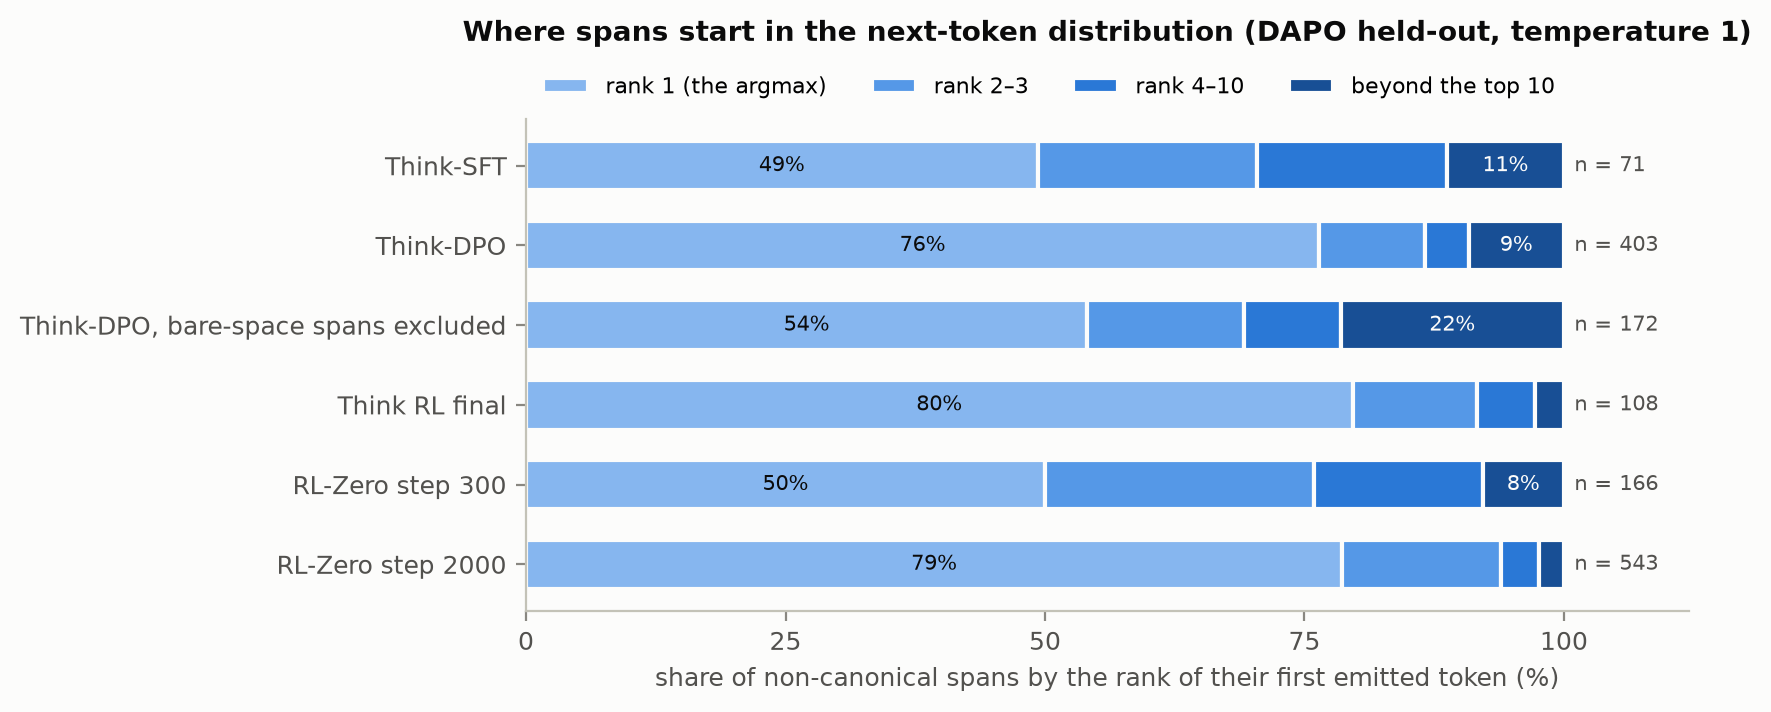
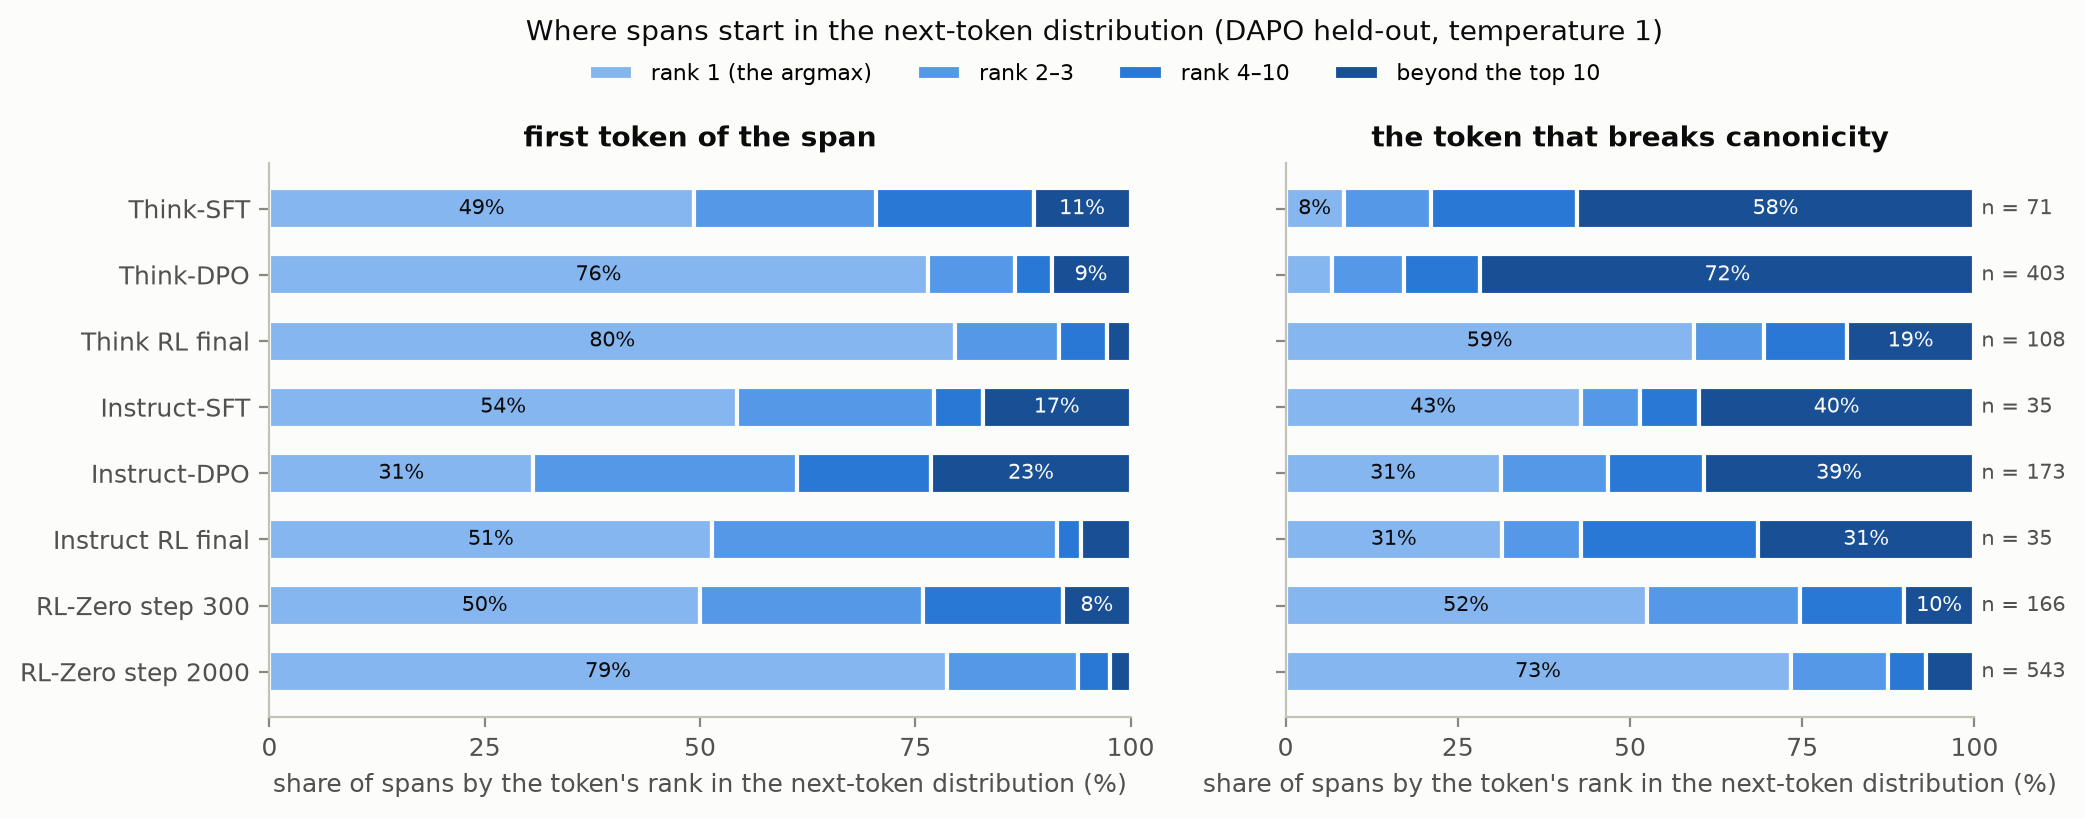
fig3: rank of the span's first token beside the rank of the token that breaks canonicity (tail.deviation_ranks split out of the table printer); draft section 2 rewritten around it

diff --git a/scripts/figures.py b/scripts/figures.py
@@ -201,42 +201,47 @@ def fig2() -> None:
     save(fig, "fig2_rlzero_steps.png")
 
 
-# --- 3. rank of the first token of each span -----------------------------------------
+# --- 3. rank of the span's first token and of the token that breaks canonicity ---------------
 def fig3() -> None:
     from noncanon.metrics import Analyzer
-    from noncanon.tail import BANDS, collect
+    from noncanon.tail import BANDS, deviation_ranks
 
     an = Analyzer("allenai/Olmo-3-7B-Think")
     cells = [("Think-SFT", "think-sft"), ("Think-DPO", "think-dpo"), ("Think RL final", "think-main"),
+             ("Instruct-SFT", "instruct-sft"), ("Instruct-DPO", "instruct-dpo"), ("Instruct RL final", "instruct-main"),
              ("RL-Zero step 300", "rlzero-math-step300"), ("RL-Zero step 2000", "rlzero-math")]
-    labels, shares, ns = [], [], []
+    labels, first_shares, dev_shares, ns = [], [], [], []
     DATA["fig3"] = {}
     for label, run in cells:
-        d = collect(an, Path("out") / run / D)
-        for name, arr in [(label, d["all_first"])] + ([(label + ", bare-space spans excluded", d["other_first"])] if label == "Think-DPO" else []):
-            sh = [100 * ((arr >= lo) & (arr <= hi)).mean() for lo, hi in BANDS]
-            labels.append(name); shares.append(sh); ns.append(len(arr))
-            DATA["fig3"][name] = {"spans": len(arr), "share_rank_1_2-3_4-10_gt10": sh, "sampled_tokens_rank_1": 100 * (d["ranks"] == 1).mean()}
-    fig, ax = plt.subplots(figsize=(7.5, 3.2))
-    ax.grid(False)
+        first, dev, where = deviation_ranks(an, Path("out") / run / D, "untruncated")
+        f_sh = [100 * ((first >= lo) & (first <= hi)).mean() for lo, hi in BANDS]
+        d_sh = [100 * ((dev >= lo) & (dev <= hi)).mean() for lo, hi in BANDS]
+        labels.append(label); first_shares.append(f_sh); dev_shares.append(d_sh); ns.append(len(first))
+        DATA["fig3"][label] = {"spans": len(first), "first_token_rank_1_2-3_4-10_gt10": f_sh, "deviating_token_rank_1_2-3_4-10_gt10": d_sh,
+                              "deviation_at_token": {k: where[k] for k in ("1", "2", "later")}}
+    fig, axes = plt.subplots(1, 2, figsize=(11, 3.6), sharey=True, gridspec_kw={"width_ratios": [1.25, 1]})
     y = np.arange(len(labels))[::-1]
-    left = np.zeros(len(labels))
     band_names = ["rank 1 (the argmax)", "rank 2–3", "rank 4–10", "beyond the top 10"]
-    for b, (name, color) in enumerate(zip(band_names, ORDINAL)):
-        vals = np.array([s[b] for s in shares])
-        ax.barh(y, vals, left=left, color=color, height=0.62, label=name, edgecolor=SURFACE, linewidth=1.5, zorder=2)
-        for yi, l, v in zip(y, left, vals):
-            if b in (0, 3) and v >= 6:
-                ax.text(l + v / 2, yi, f"{v:.0f}%", ha="center", va="center", fontsize=7.5, color=SURFACE if b == 3 else INK)
-        left += vals
+    for ax, shares, title in zip(axes, (first_shares, dev_shares), ("first token of the span", "the token that breaks canonicity")):
+        ax.grid(False)
+        left = np.zeros(len(labels))
+        for b, (name, color) in enumerate(zip(band_names, ORDINAL)):
+            vals = np.array([s[b] for s in shares])
+            ax.barh(y, vals, left=left, color=color, height=0.62, label=name, edgecolor=SURFACE, linewidth=1.5, zorder=2)
+            for yi, l, v in zip(y, left, vals):
+                if b in (0, 3) and v >= 7:
+                    ax.text(l + v / 2, yi, f"{v:.0f}%", ha="center", va="center", fontsize=7.5, color=SURFACE if b == 3 else INK)
+            left += vals
+        ax.set_xlim(0, 100)
+        ax.set_xticks([0, 25, 50, 75, 100])
+        ax.set_title(title)
+        ax.set_xlabel("share of spans by the token's rank in the next-token distribution (%)")
     for yi, n in zip(y, ns):
-        ax.text(101, yi, f"n = {n}", va="center", fontsize=7.5, color=INK2)
-    ax.set_yticks(y, labels)
-    ax.set_xlim(0, 112)
-    ax.set_xticks([0, 25, 50, 75, 100])
-    ax.set_xlabel("share of non-canonical spans by the rank of their first emitted token (%)")
-    ax.legend(loc="lower center", bbox_to_anchor=(0.45, 1.0), ncol=4)
-    ax.set_title("Where spans start in the next-token distribution (DAPO held-out, temperature 1)", pad=28)
+        axes[1].text(101, yi, f"n = {n}", va="center", fontsize=7.5, color=INK2)
+    axes[0].set_yticks(y, labels)
+    handles, names = axes[0].get_legend_handles_labels()
+    fig.legend(handles, names, loc="lower center", bbox_to_anchor=(0.5, 0.96), ncol=4)
+    fig.suptitle("Where spans start in the next-token distribution (DAPO held-out, temperature 1)", fontsize=10, color=INK, y=1.08)
     save(fig, "fig3_span_rank.png")
 
 

diff --git a/noncanon/tail.py b/noncanon/tail.py
@@ -116,33 +116,42 @@ def deviation_index(an: Analyzer, span_ids: list[int]) -> int:
     return len(span_ids) - 1
 
 
-def print_deviation_table(an: Analyzer, specs: list[str], default_arm: str | None) -> None:
-    """Per cell: rank bands of the span's first token and of its deviating token, and where the deviation sits."""
+def deviation_ranks(an: Analyzer, run: Path, arm: str | None) -> tuple[np.ndarray, np.ndarray, Counter]:
+    """Per span of one cell: rank of the first token, rank of the deviating token (11 = beyond the stored top-10),
+    and a count of where the deviation sits ("1", "2", "later")."""
     import json
 
-    from noncanon.compare import load_rows, parse_spec
+    from noncanon.compare import load_rows
+
+    arm_name = load_rows(run, arm)[0]["file"].removesuffix(".parquet")
+    recs = {(r["prompt_id"], r["sample"]): r for r in iter_records(run / f"{arm_name}.parquet")}
+    first, dev, where = [], [], Counter()
+    for line in (run / "metrics" / "examples.jsonl").open():
+        e = json.loads(line)
+        if not e["file"].startswith(arm_name) or e["canonical"] is None:
+            continue
+        rec = recs[(e["prompt_id"], e["sample"])]
+        ids, pos, L = rec["token_ids"], e["pos"], len(e["emitted"])
+        k = deviation_index(an, ids[pos: pos + L])
+        if pos + k >= len(rec["topk_ids"]):
+            continue
+        rank = lambda i: rec["topk_ids"][i].index(ids[i]) + 1 if ids[i] in rec["topk_ids"][i][:10] else 11
+        first.append(rank(pos)); dev.append(rank(pos + k)); where["1" if k == 0 else "2" if k == 1 else "later"] += 1
+    return np.array(first), np.array(dev), where
+
+
+def print_deviation_table(an: Analyzer, specs: list[str], default_arm: str | None) -> None:
+    """Per cell: rank bands of the span's first token and of its deviating token, and where the deviation sits."""
+    from noncanon.compare import parse_spec
 
     print("| cell | spans | first-token rank: 1 / 2–3 / 4–10 / beyond top-10 | deviating-token rank: 1 / 2–3 / 4–10 / beyond top-10 | deviation at token 1 / 2 / later |")
     print("|---|--:|---|---|---|")
     for spec in specs:
         label, run, arm = parse_spec(spec, default_arm)
-        arm_name = load_rows(run, arm)[0]["file"].removesuffix(".parquet")
-        recs = {(r["prompt_id"], r["sample"]): r for r in iter_records(run / f"{arm_name}.parquet")}
-        first, dev, where = [], [], Counter()
-        for line in (run / "metrics" / "examples.jsonl").open():
-            e = json.loads(line)
-            if not e["file"].startswith(arm_name) or e["canonical"] is None:
-                continue
-            rec = recs[(e["prompt_id"], e["sample"])]
-            ids, pos, L = rec["token_ids"], e["pos"], len(e["emitted"])
-            k = deviation_index(an, ids[pos: pos + L])
-            if pos + k >= len(rec["topk_ids"]):
-                continue
-            rank = lambda i: rec["topk_ids"][i].index(ids[i]) + 1 if ids[i] in rec["topk_ids"][i][:10] else 11
-            first.append(rank(pos)); dev.append(rank(pos + k)); where["1" if k == 0 else "2" if k == 1 else "later"] += 1
+        first, dev, where = deviation_ranks(an, run, arm)
         n = len(first)
         pct = lambda c: f"{100 * c / n:.0f}%" if n else "n/a"
-        print(f"| {label} | {n} | {band_shares(np.array(first))} | {band_shares(np.array(dev))} | {pct(where['1'])} / {pct(where['2'])} / {pct(where['later'])} |")
+        print(f"| {label} | {n} | {band_shares(first)} | {band_shares(dev)} | {pct(where['1'])} / {pct(where['2'])} / {pct(where['later'])} |")
 
 
 def print_deviation_examples(an: Analyzer, specs: list[str], default_arm: str | None, n: int, seed: int) -> None:

diff --git a/WRITEUP_DRAFT.md b/WRITEUP_DRAFT.md
@@ -8,13 +8,13 @@ A language model can emit a token sequence whose decoded text re-tokenizes diffe
 
 I sampled 500 held-out DAPO math problems (and AIME 2024/2025 for three checkpoints) from every released post-training checkpoint of OLMo-3-7B Think and Instruct (SFT, DPO, RL), from six RL steps of OLMo-3-7B RL-Zero-Math (RL directly on the base model), and from the Tulu-3-8B ladder as a second tokenizer: 16 checkpoints, 75 million generated tokens, emitted ids kept and checked by `encode(decode(ids)) != ids`. The statistic is the fraction of rollouts with at least one non-canonical event (a span or an unfinished multi-byte character).
 
-**The answer to the title question.** For a shipped model it is a small problem: the OLMo-3-7B Think release has an event in 2% of its 9,000-token math rollouts at its recommended sampling settings, and 10% at temperature 1. For intermediate checkpoints it is not small: the DPO checkpoint before it has one in 15% of rollouts at recommended settings and 55% at temperature 1. When an event happens the damage is local. Teacher-forcing the same text as the emitted ids versus their canonical re-tokenization changes the next-token argmax at the span for 12–36% of spans and the two distributions agree again within about 16 tokens (Figure 4).
+**The answer to the title question.** For a shipped model it is a small problem: the OLMo-3-7B Think release has an event in 2% of its 9,000-token math rollouts at its recommended sampling settings, and 10% at temperature 1. For intermediate checkpoints it is not: the DPO checkpoint before it has one in 15% of rollouts at recommended settings and 55% at temperature 1. When an event happens the damage is local. Teacher-forcing the same text as the emitted ids versus their canonical re-tokenization changes the next-token argmax at the span for 12–36% of spans and the two distributions agree again within about 16 tokens (Figure 4).
 
-**My pre-registered prediction was wrong.** I predicted SFT ≈ DPO < RL, because on-policy RL is the only stage whose loss is computed on the ids the model actually emitted. Instead DPO, which trains on canonical text, raised the flagged fraction from 12% to 55% (Think) and 3% to 21% (Instruct), and on-policy RL brought it back to 10% and 6% (Figure 1). More than half of DPO's excess in Think is one span shape, a standalone space (canonical only before a digit) followed by a tail token, and the same checkpoint code-switches into Chinese ten times more than its neighbours; excluding that shape and byte fragments, DPO still flags 23% of rollouts against 10% for SFT and RL.
+**My pre-registered prediction was wrong.** I predicted SFT ≈ DPO < RL, because on-policy RL is the only stage whose loss is computed on the ids the model actually emitted. Instead DPO, which trains on canonical text, raised the flagged fraction from 12% to 55% (Think) and 3% to 21% (Instruct), and on-policy RL brought it back to 10% and 6% (Figure 1). More than half of DPO's excess in Think is a standalone space (canonical only before a digit) followed by a tail token, and the same checkpoint code-switches into Chinese ten times more than its neighbours; excluding that shape and byte fragments, DPO still flags 23% of rollouts against 10% for SFT and RL.
 
 **RL from the base model goes the other way, mostly through one habit.** RL-Zero-Math is flat at 15% of rollouts from step 300 to 1000, then 29%, 23% and 58% at steps 1400, 1800 and 2000. The swings are one learned span at the start of the rollout (` $`+`($` where the tokenizer has ` $($`), in 99, 27 and 210 rollouts at those steps. Without it the rate is flat at 12–15% through step 1400, then 19% and 27%.
 
-**Tulu-3 does not move** (3–5% at every stage, Llama tokenizer), so the DPO spike may be specific to the OLMo-3 tokenizer or recipe. **This is not tail sampling:** in the three cells with logprob analysis, three quarters of spans begin with the model's argmax token, and the recommended settings lower the rate 3.6–8.5× without removing it.
+**Tulu-3-8B does not move** (3–5% at every stage), so the DPO spike may be an OLMo-3 quirk. **Two mechanisms.** Ranked at the token that breaks canonicity, SFT's and DPO's spans are tail samples (58% and 72% beyond the top 10) while on-policy RL's are the model's first choice (59% at the argmax for Think RL final, 73% for RL-Zero), so the recommended settings remove most of DPO's spans and few of RL-Zero's.
 
 ![Figure 1](figures/fig1_stages.png)
 
@@ -101,7 +101,7 @@ In both tracks the DPO checkpoint flags far more rollouts than the SFT checkpoin
 
 Think-DPO's 55% is 231 bare-space spans and 107 byte fragments on top of 172 ordinary spans; SFT and RL final have 6 and 1 bare-space spans. Excluding both classes the DPO spike is 2.3× rather than 4.7×, still at p < 1e-6, and the ordering is unchanged. Instruct-DPO's 21% is ordinary spans. Both the bare-space habit and the ordinary-span increase appear at DPO and disappear at RL, so they are both DPO effects, but they should be counted separately, and the mechanism discussion below treats them separately.
 
-RL-Zero-Math is flat from step 300 to 1000 (14.6%, 14.6%, 15.6%), then 28.8% at step 1400, 23.4% at 1800 and 58.4% at 2000 (Figure 2). Accuracy (87–92%) and mean length (5,400–6,350 tokens) do not move. The non-monotone part is one learned span: ` $`+`($` at the third token of the rollout, where the model opens its first display equation right after the template's instruction, in 16, 17, 99, 27 and 210 rollouts at steps 600 to 2000. With that span removed the fractions are 14.6%, 12.0%, 12.2%, 11.8%, 19.2% and 26.6%, and within the first 256 tokens 0.6–2.2% at every checkpoint. So the run has two things going on. One is a habit for one LaTeX opener whose frequency swings between checkpoints. The other is a rise from 12% to 27% of rollouts in the last 600 steps that is not length (median rollout length stays at 5,100–5,500 tokens) and not the opening: split by depth, non-habit events per million tokens stay at 20–50 in the first 1,024 tokens at every checkpoint, and roughly triple past 1,024 tokens between steps 1400 and 2000 (Figure 2, right; 8–60 events per point). The later text is the model's own mid-solution reasoning, where the word-plus-variable joins live (` than`+`k`, ` when`+`g`). I do not know what drives it. A finer checkpoint ladder around steps 1400–2000 would say whether the opener habit tracks something in the training data or reward; the released checkpoints cannot.
+RL-Zero-Math is flat from step 300 to 1000 (14.6%, 14.6%, 15.6%), then 28.8% at step 1400, 23.4% at 1800 and 58.4% at 2000 (Figure 2). Accuracy (87–92%) and mean length (5,400–6,350 tokens) do not move. The non-monotone part is one learned span: ` $`+`($` at the third token of the rollout, where the model opens its first display equation right after the template's instruction, in 16, 17, 99, 27 and 210 rollouts at steps 600 to 2000. With that span removed the fractions are 14.6%, 12.0%, 12.2%, 11.8%, 19.2% and 26.6%, and within the first 256 tokens 0.6–2.2% at every checkpoint. So the run has two things going on. One is a habit for one LaTeX opener whose frequency swings between checkpoints (emitted as the model's first choice: 73% of RL-Zero's breaking tokens are the argmax at step 2000). The other is a rise from 12% to 27% of rollouts in the last 600 steps that is not length (median rollout length stays at 5,100–5,500 tokens) and not the opening: split by depth, non-habit events per million tokens stay at 20–50 in the first 1,024 tokens at every checkpoint, and roughly triple past 1,024 tokens between steps 1400 and 2000 (Figure 2, right; 8–60 events per point). The later text is the model's own mid-solution reasoning, where the word-plus-variable joins live (` than`+`k`, ` when`+`g`). I do not know what drives it. A finer checkpoint ladder around steps 1400–2000 would say whether the opener habit tracks something in the training data or reward; the released checkpoints cannot.
 
 ![Figure 2](figures/fig2_rlzero_steps.png)
 
@@ -111,17 +111,17 @@ Tulu-3 does not move on whole rollouts: 5.2%, 3.0%, 2.8%, 3.4% across SFT, DPO, 
 
 So predictions 3 and 4 were wrong. DPO, which never sees an emitted id, raised the rate; on-policy RL, the only stage that could reinforce a non-canonical sequence, lowered it from an SFT starting point and raised it from a base-model starting point.
 
-### 2. Most spans start at the argmax, and the recommended settings do not remove them
+### 2. Tail samples in SFT and DPO, argmax habits under on-policy RL
 
-The obvious alternative explanation is that non-canonical tokens are tail samples that a sane top-p removes. The stored top-10 logprobs say otherwise (Figure 3). In the three cells I ran the logprob analysis on, the first token of the span was the model's argmax 76–80% of the time (Think-DPO 76%, Think RL final 80%, RL-Zero step 2000 79%), against 86–88% of all sampled tokens at rank 1. In Think-SFT and RL-Zero step 300 it is about half. Only 2–11% of spans start beyond the top 10.
+The obvious alternative explanation is that non-canonical tokens are tail samples that a sane top-p removes. The stored top-10 logprobs give a two-part answer (Figure 3). The first token of a span is usually a legitimate prefix (a bare space before a digit, ` light` before `house`), and it is the model's argmax 76–80% of the time in the cells with the most spans. The decision that makes the string non-canonical is the token after it, the first emitted token after which the tokens so far no longer re-encode to themselves; it is the second token of the span in 86–100% of spans in every cell. Ranked at that token, the ladders separate. Think-SFT's and Think-DPO's spans are tail samples: 58% and 72% of breaking tokens come from beyond the top 10 and only 8% and 7% are the argmax. Think RL final's are argmax choices (59% at rank 1, 19% beyond the top 10), and RL-Zero's are argmax choices at every checkpoint (52% at step 300, 73% at step 2000). The Instruct ladder is mixed and Tulu-3-SFT's spans are tail samples (81% beyond the top 10).
 
 ![Figure 3](figures/fig3_span_rank.png)
 
-**Figure 3.** Share of non-canonical spans by the rank of their first emitted token in the model's next-token distribution.
+**Figure 3.** Share of non-canonical spans by the rank of the span's first token (left) and of the token that breaks canonicity (right) in the model's next-token distribution.
 
-DPO's bare-space spans have the space at probability near 1 and the token after it at rank >10 in 81% of cases. Excluding those, DPO's argmax-start spans per million argmax samples are 26, against 11 for SFT and 21 for RL final. Sharpness does not explain the ladder either: among the temperature-1 cells, Think-SFT is the least sharp by every measure (top-10 entropy 0.62 nats, 1.2% of samples beyond the top 10) and has the lowest tail-start span rate, while DPO is the sharpest (0.34 nats, 0.5%) and its beyond-top-10 samples are non-canonical 11× more often than SFT's.
+The examples in `RESULTS.md` show what the two kinds look like. A tail sample is Think-DPO emitting ` `+`^` at p = 0.001 where `20` had 0.43. An argmax habit is Think RL final emitting `_g`+`b` at p = 1.000 three times in one rollout, or RL-Zero emitting `3`+`5` for `35` at p = 1.000: the prefix token committed the model and the breaking token was forced. This is the pattern I pre-registered for the two mechanisms (argmax spans should rise with on-policy RL, tail spans should track DPO), and the first-token ranks I looked at first did not show it.
 
-The recommended settings lower every OLMo-3 cell by 3.6–8.5× (all p ≤ 7e-4) without changing the ordering: Think-DPO 55% → 15%, Think RL 10% → 2%, Instruct-DPO 21% → 5%, Instruct RL 6% → 1%. In the two recommended-settings cells I measured, the model never sampled beyond its top 10, so what survives is argmax and near-argmax spans; Think-DPO's 15% is still mostly bare-space spans (73 of 108 events), and 4% excluding them.
+It also explains the sampling-settings result. The recommended settings lower every OLMo-3 cell by 3.6–8.5× (all p ≤ 7e-4) without changing the ordering: Think-DPO 55% → 15%, Think RL 10% → 2%, Instruct-DPO 21% → 5%, Instruct RL 6% → 1%. Cutting the tail removes DPO's tail-sampled spans (its remaining spans sit at ranks 1–3) and cannot remove a span the model emits as its first choice, which is why RL-Zero, sampled as it was trained, keeps its 58%.
 
 ### 3. Robustness: length, problem set, correctness
 
@@ -153,7 +153,7 @@ A probe or logit lens run on a re-tokenized transcript therefore sees the wrong 
 
 The pre-registered mechanism (on-policy RL releases the canonicalizing pressure of text training) predicts the RL-Zero curve and nothing else. Candidate explanations for the rest, and what would separate them:
 
-1. **On-policy RL from an SFT model canonicalizes rather than releases.** The sampled ids are overwhelmingly canonical, and reinforcing sampled sequences sharpens the model onto its own canonical habits. RL from the base model has no such prior, and what it reinforces includes its own non-canonical habits (the ` $($` opening is the clearest case: reinforced because it starts correct answers, not because of its tokenization). Test: the Think RL run has 55 intermediate checkpoints; the rate should fall over steps from the DPO starting point.
+1. **On-policy RL from an SFT model canonicalizes rather than releases, and what survives it is habit, not noise.** The sampled ids are overwhelmingly canonical, and reinforcing sampled sequences sharpens the model onto its own canonical habits; the spans that remain after RL are emitted as the model's first choice, not sampled from the tail. RL from the base model has no such prior, and what it reinforces includes its own non-canonical habits (the ` $($` opening is the clearest case: reinforced because it starts correct answers, not because of its tokenization). Test: the Think RL run has 55 intermediate checkpoints; the rate should fall over steps from the DPO starting point.
 2. **DPO changes the tail after a bare space, not the space, and code-switches into Chinese.** The three Think checkpoints emit the bare-space token at the same rate (42–43 per 1,000 tokens) and expect a digit after it 99% of the time on every checkpoint. What DPO changes is what comes out when the next token is not a digit: 231 whitespace-first spans against 6 for SFT and 1 for RL final, whose second tokens are byte fragments and CJK characters (32) and otherwise punctuation and word pieces. The same checkpoint has 591 CJK characters per 100k in 152 of 500 rollouts, against 46 for SFT and 18 for RL final. Think-SFT's traces are re-tokenized DeepSeek-R1 reasoning, which is known to mix Chinese into English chains; DPO on preferences over such traces could amplify it and the verifiable-reward RL after it prunes it. Test: whether the Dolci-Think-DPO chosen responses contain more CJK than the rejected ones. The 2.3× rise in ordinary spans still needs its own explanation.
 3. **Training amount.** With quality held roughly equal, more training lowers the rate. This fits Think RL > DPO > SFT in total steps but not the DPO spike above SFT or RL-Zero rising.
 4. **Tokenizer.** Tulu-3 is flat. One more family with per-stage checkpoints on a third tokenizer would say whether the DPO effect is an OLMo-3 quirk.
